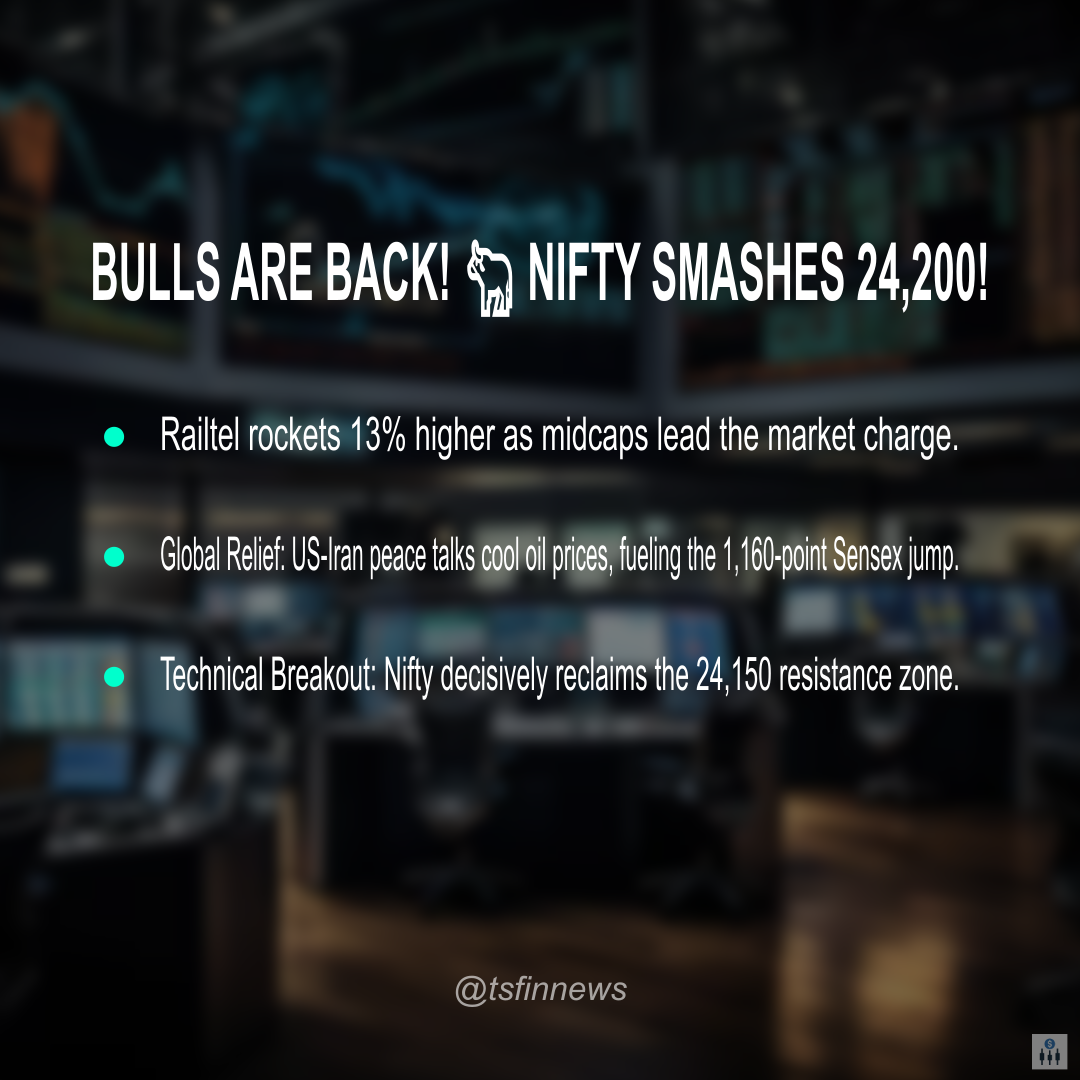
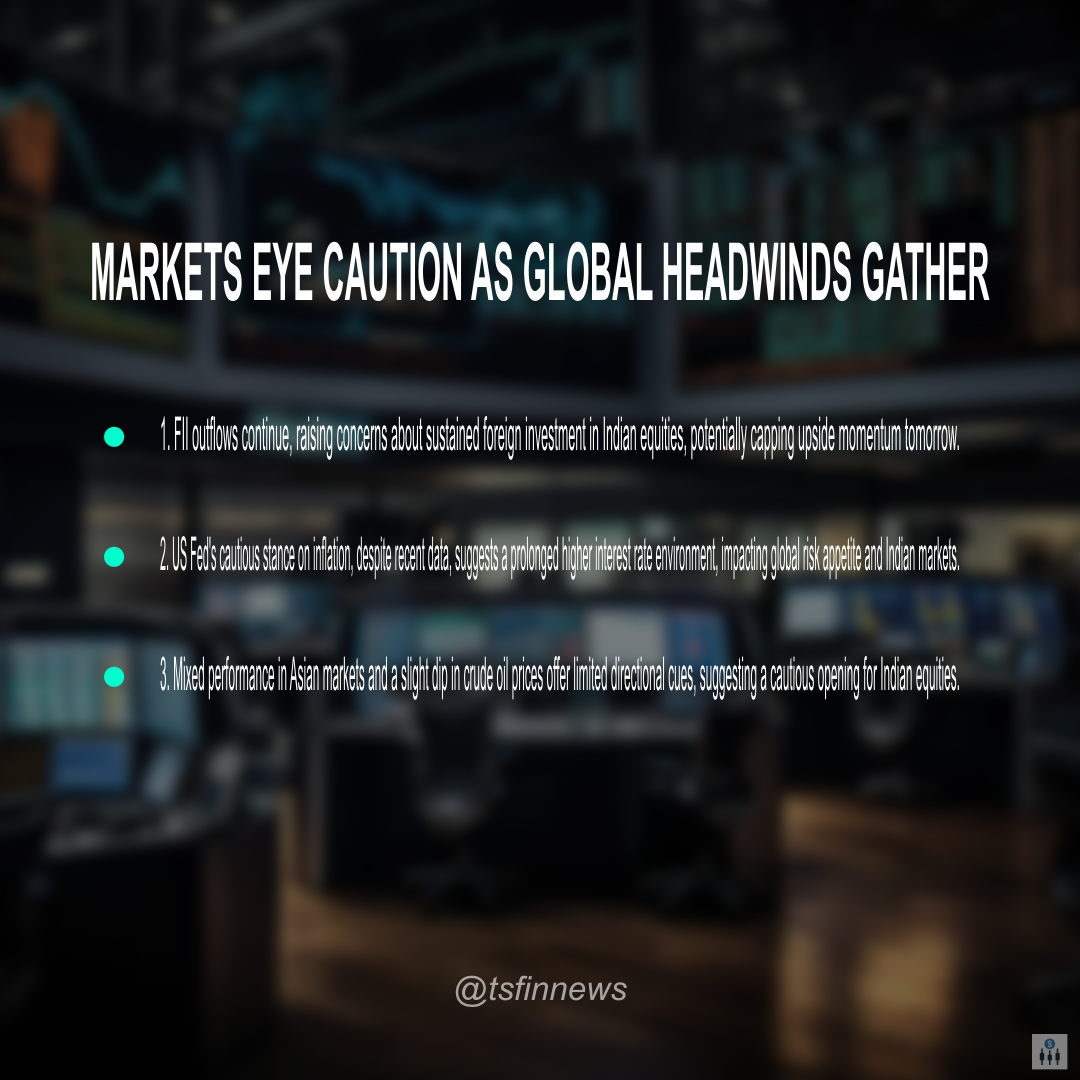
update:updated prompts to give json format properly.

diff --git a/lib/helpers/prompts.ts b/lib/helpers/prompts.ts
@@ -3,17 +3,25 @@ export const getDailyStockSummaryPrompt = (
   rawNews: string,
 ) => {
   const EVERYDAY_STOCK_SUMMARY_PROMPT = `
-      You are a top Indian Stock Market influencer. 
-      Market Data: ${JSON.stringify(marketData)}
-      News Context: ${rawNews}
-    
-      Create a viral Instagram post. 
-      1. Headline: Catchy, high-impact (e.g., "BULLS ARE BACK!", "NIFTY HITS 24K").
-      2. Points: Pick the 3 most important things (Top Gainer, a major news event, and a technical level).
-      3. Caption: Add emojis and trending hashtags like #Nifty50 #StockMarketIndia #Trading.
-    
-      Return ONLY JSON:
-      { "headline": "...", "points": ["...", "...", "..."], "caption": "..." }
+      Create a JSON summary of the most important things that happened TODAY (use the current date) which will reflect or affect the Indian stock market tomorrow morning. Focus on Indian market momentum + global momentum. This prompt will be run every night to quickly check market & global cues.
+
+Respond STRICTLY with ONLY a valid JSON object (no extra text, no markdown, no explanations). Use real-time knowledge of today's closing data, news, FII/DII flows, global cues, commodities, geopolitics, earnings, RBI/policy updates, or any event that can move Nifty/Sensex at opening.
+
+The JSON must follow this exact structure:
+
+  {
+    "date": "YYYY-MM-DD",
+    "headline": "Catchy, high-impact headline (e.g. \"BULLS CHARGE AHEAD!\", \"NIFTY EYES 24K\", \"GLOBAL CUES TURN RED\")",
+    "points": [
+      "1. Most important event/news today & its direct impact on Indian market tomorrow",
+      "2. Second most important event/news today & its direct impact on Indian market tomorrow",
+      "3. Third most important event/news today & its direct impact on Indian market tomorrow"
+    ],
+    "indian_momentum": "Concise 2-3 sentence summary of today's Indian market close (Nifty50, Sensex, BankNifty, sectoral winners/losers) + momentum & key support/resistance levels for tomorrow's open",
+    "global_momentum": "Concise 2-3 sentence summary of global cues (US markets close, Nasdaq/Dow futures, Asian markets, Europe, crude oil, gold, USDINR, VIX, FII flows) and how they will influence Indian opening",
+    "overall_impact": "One-sentence verdict on expected Indian market opening tomorrow (Gap-up / Flat / Gap-down / Volatile) with reasoning",
+    "caption": "Ready-to-post Instagram caption with emojis + trending hashtags like #Nifty50 #Sensex #StockMarketIndia #BankNifty #Trading #Nifty #GlobalCues"
+  }
     `;
   return EVERYDAY_STOCK_SUMMARY_PROMPT;
 };

diff --git a/lib/helpers/interview-prep/prompts.ts b/lib/helpers/interview-prep/prompts.ts
@@ -1,14 +1,27 @@
 export const getTenQAPrompt: (tech: string) => string = (tech: string) => {
   const prompt = `
-    Generate 10 advanced interview questions and answers for a Senior Developer role focusing on ${tech}.
+    Generate JSON file with 10 advanced interview questions and answers for a Senior Developer role focusing on ${tech}.
     Mix concept questions with "What happens if..." scenarios.
-    
-    Return ONLY JSON:
+
+    CRITICAL CONSTRAINTS:
+    1. No Markdown: Do NOT use bold (**), italics (*), or lists (-) inside the JSON values.
+    2. Plain Text Only: Keep the answers as raw strings.
+    3. Character Limit: Each answer MUST be under 400 characters. 
+    4. Escaping: Ensure any double quotes inside the text are properly escaped as \\".
+
+    STRICT REQUIREMENTS:
+    1. The "problem" should be a clear, 2-sentence task.
+    2. The "solution" MUST be a single, concise code block. 
+    3. DO NOT include a long text explanation after the code. 
+    4. DO NOT create multi-file projects; keep it to one component or function.
+    5. Avoid excessive comments.
+
+    JSON FORMAT:
     {
-      "tech": "${tech}",
-      "questions": [
-        { "q": "Question text", "a": "Detailed answer with code example if applicable" }
-      ]
+        "tech": "${tech}",
+        "questions": [
+        { "q": "Concise Question?", "a": "Concise technical answer." }
+        ]
     }
   `;
   return prompt;
@@ -18,21 +31,20 @@ export const getInterviewProblemPrompt: (tech: string) => string = (
   tech: string,
 ) => {
   const prompt = `
-  Generate 10 Senior-level Interview Q&A for ${tech}.
+    Generate JSON file with 1 unique coding challenge for ${tech}.
+    Format:
+    1. Problem Statement
+    2. Constraints
+    3. Starter Code
+    4. Solution (with explanation)
 
-  CRITICAL CONSTRAINTS:
-  1. No Markdown: Do NOT use bold (**), italics (*), or lists (-) inside the JSON values.
-  2. Plain Text Only: Keep the answers as raw strings.
-  3. Character Limit: Each answer MUST be under 400 characters. 
-  4. Escaping: Ensure any double quotes inside the text are properly escaped as \\".
-
-  JSON FORMAT:
-  {
-    "tech": "${tech}",
-    "questions": [
-      { "q": "Concise Question?", "a": "Concise technical answer." }
-    ]
-  }
-`;
+    Return ONLY JSON:
+    {
+      "title": "...",
+      "problem": "...",
+      "starterCode": "...",
+      "solution": "..."
+    }
+  `;
   return prompt;
 };

diff --git a/src/core/gemini.ts b/src/core/gemini.ts
@@ -10,6 +10,7 @@ const FALLBACK_CHAIN = [
   GEMINI_MODELS.FLASH_3,
   GEMINI_MODELS.FLASH_2_5,
   GEMINI_MODELS.FLASH_LITE_3_1,
+  GEMINI_MODELS.LITE_2_5,
 ];
 
 export async function askGemini(prompt: string, isJson = true) {
@@ -26,7 +27,7 @@ export async function askGemini(prompt: string, isJson = true) {
         // 🚀 ALL settings MUST be inside this 'config' object
         config: {
           responseMimeType: isJson ? "application/json" : "text/plain",
-          maxOutputTokens: 1500,
+          maxOutputTokens: 4096, // 🚀 Bump this to 4k to allow full code solutions
           temperature: 0.1,
         },
       });
@@ -35,7 +36,7 @@ export async function askGemini(prompt: string, isJson = true) {
 
       if (!rawText) throw new Error("EMPTY_RESPONSE");
 
-      return isJson ? extractJson(rawText) : rawText;
+      return isJson ? JSON.parse(rawText) : rawText;
     } catch (error: any) {
       // ... your existing error handling ...
       lastError = error;

diff --git a/lib/constants/index.ts b/lib/constants/index.ts
@@ -17,6 +17,9 @@ export const GEMINI_MODELS = {
   // 🖼 The "Artists" (Specialized)
   IMAGE_3_1: "gemini-3.1-flash-image-preview", // For vision/image tasks
   LIVE_3_1: "gemini-3.1-flash-live-preview", // For real-time audio/voice
+
+  // 🏎 The "Speedsters" (1,000 Requests/Day)
+  LITE_2_5: "gemini-2.5-flash-lite",
 } as const;
 
 // 💡 Helper to pick the best model for the situation

diff --git a/src/tasks/interview-prep/engine.ts b/src/tasks/interview-prep/engine.ts
@@ -18,6 +18,8 @@ async function runInterviewPrep() {
     console.log("⏳ Generating Q&A...");
     const qaData = await generateQA(tech);
 
+    console.log("qaData : ", qaData);
+
     // Format your Q&A message here (using your existing formatting logic)
     let qaMsg = ``;
     qaData.questions.forEach((q: any, i: number) => {
